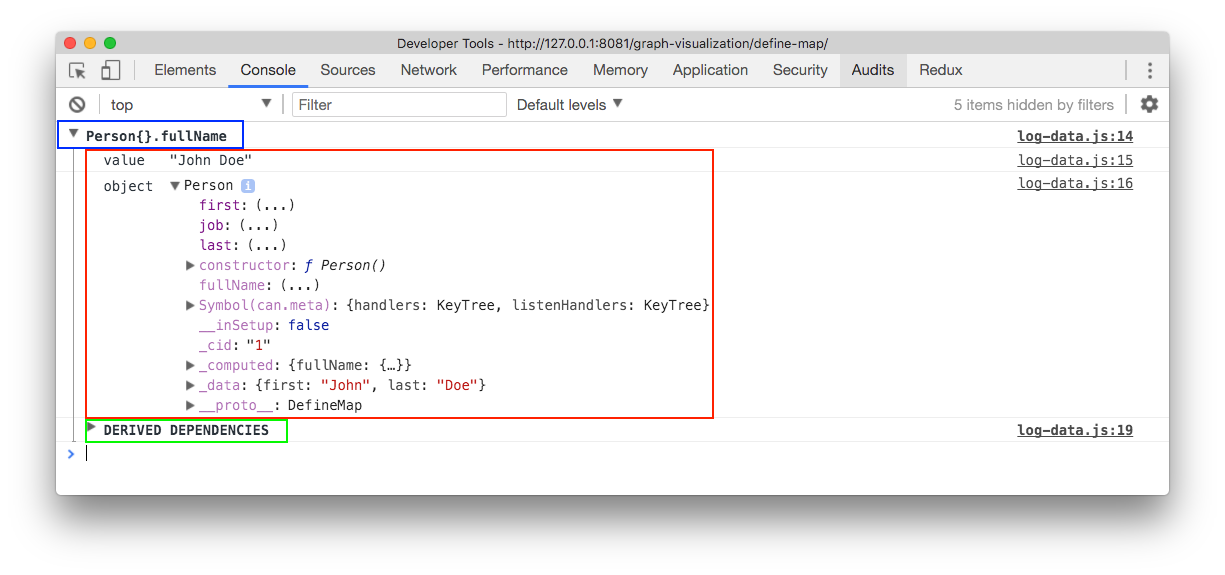
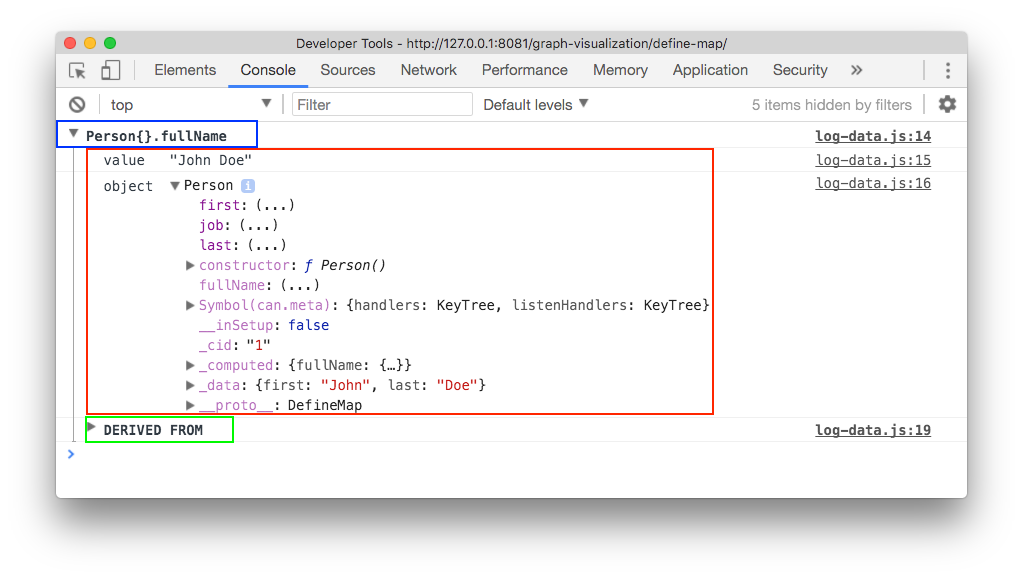
Rename dependencies console group labels
- Derived From
- Mutated By
- Two way

Changed region(s): [[0.0303, 0.0591, 0.9697, 0.8574]]

diff --git a/src/log-data/log-data.js b/src/log-data/log-data.js
@@ -13,19 +13,19 @@ module.exports = function log(data) {
 	console.log("object ", node.obj);
 
 	if (data.derive.length) {
-		console.group("DERIVED DEPENDENCIES");
+		console.group("DERIVED FROM");
 		canReflect.eachIndex(data.derive, log);
 		console.groupEnd();
 	}
 
 	if (data.mutations.length) {
-		console.group("MUTATION DEPENDENCIES");
+		console.group("MUTATED BY");
 		canReflect.eachIndex(data.mutations, log);
 		console.groupEnd();
 	}
 
 	if (data.twoWay.length) {
-		console.group("TWO WAY DEPENDENCIES");
+		console.group("TWO WAY");
 		canReflect.eachIndex(data.twoWay, log);
 		console.groupEnd();
 	}

diff --git a/doc/can-debug.md b/doc/can-debug.md
@@ -28,8 +28,8 @@ Exports an object with the following methods:
 `can-debug` exports functions to log how observables affect each other. These 
 functions can be used to understand the flow of data throughout an application.
 
-The following example shows how to use the [logWhatChangesMe] function to log 
-what affects the value of the `fullName` property on the `me` Person instance.
+The following example shows how to use the [can-debug.logWhatChangesMe] function 
+to log what affects the value of the `fullName` property on the `me` Person instance.
 
 ```js
 var Person = DefineMap.extend("Person", {
@@ -76,11 +76,11 @@ blue border box, these dependencies are grouped based on their relation to the
 parent observable, in its current version `can-debug` outputs the following 
 groups:
 
-- **DERIVED DEPENDENCIES**: observables used internally by the parent to derive its value.
-- **MUTATION DEPENDENCIES**: observables that set the value of the parent observable 
+- **DERIVED FROM**: observables used internally by the parent to derive its value.
+- **MUTATED BY**: observables that set the value of the parent observable 
   these are mostly found inside CanJS internals, where observables interact with
 	each other, like [can-stache-bindings].
-- **TWO WAY DEPENDENCIES**: observables that are both derived and mutation dependencies.
+- **TWO WAY**: observables that are both derived and mutation dependencies.
 
 The observables in each group are printed out recursively using the same format we 
 just described, We can can confirm this by expanding `Person{}.fullName`'s dependencies 
